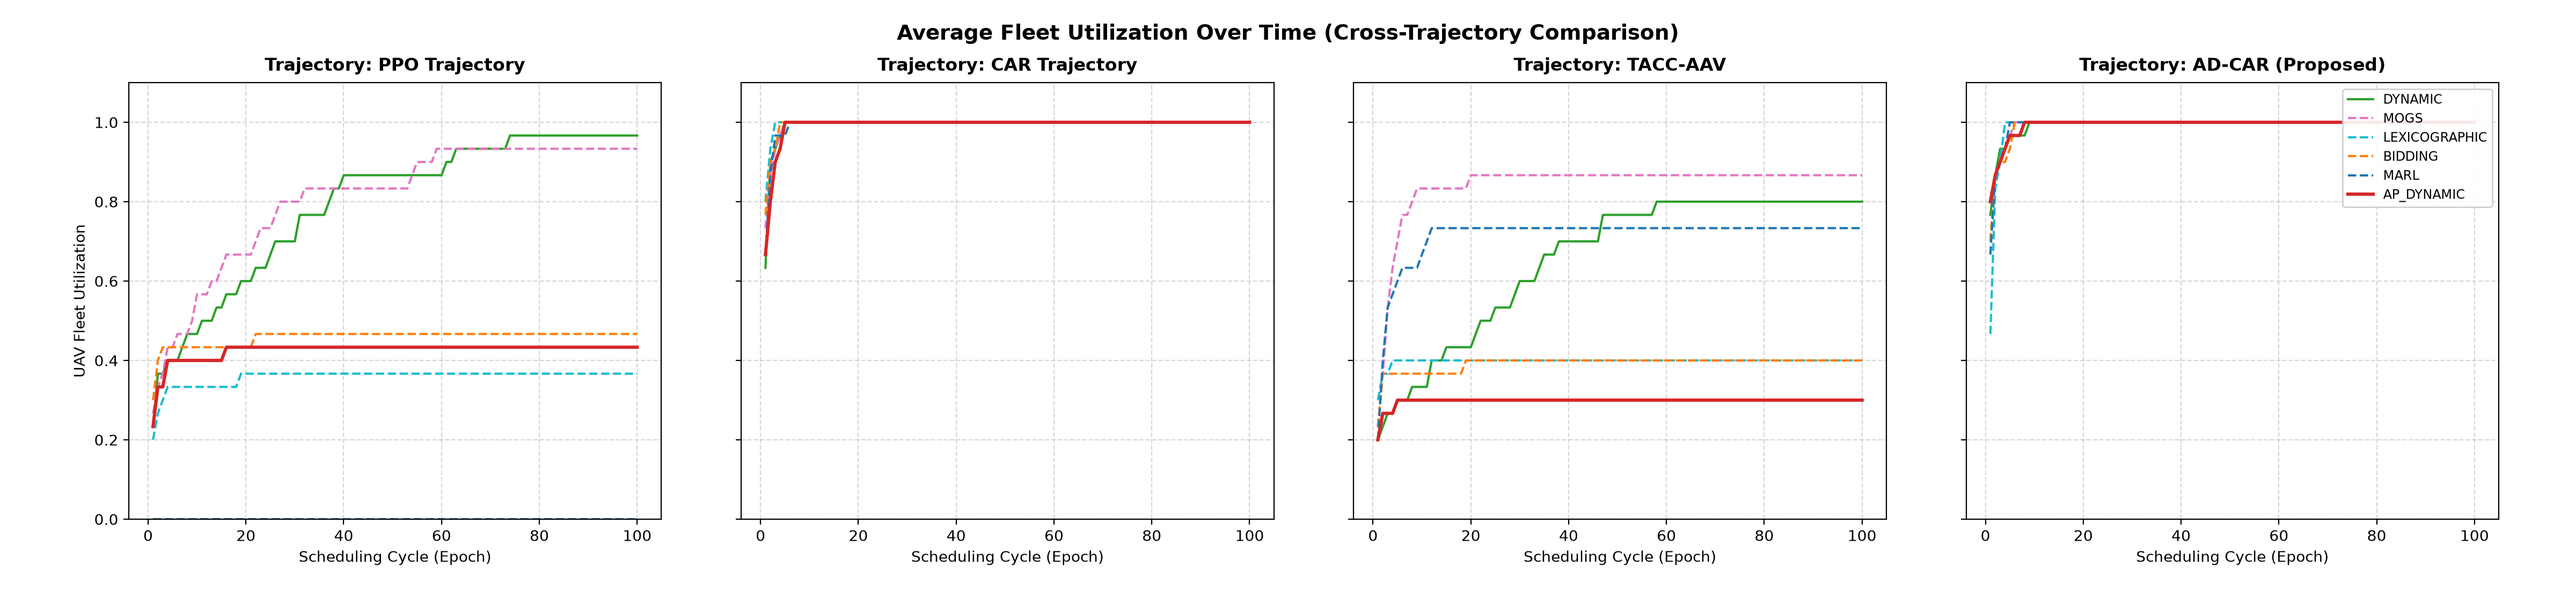
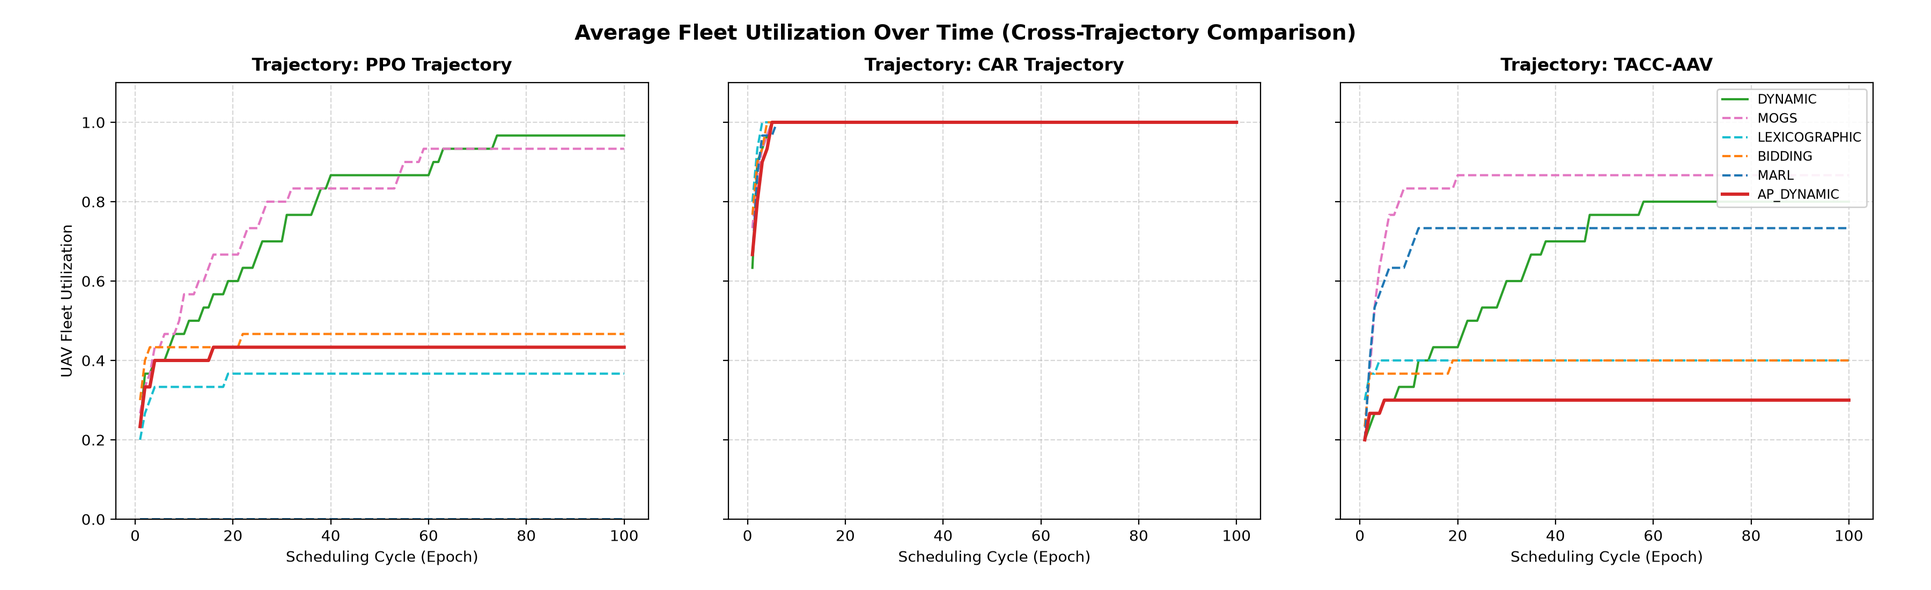
refactor(benchmarks): remove AD-CAR, standardize to 3-panel comparative figures (PPO, CAR, TACC) and highlight CAR + AP_DYNAMIC as flagship

diff --git a/trajectory_map_generator.py b/trajectory_map_generator.py
@@ -231,27 +231,6 @@ def simulate_tacc_trajectories(mds, uav_starts, steps: int = 70):
     return uav_data
 
 
-def simulate_adcar_trajectories(mds, uav_starts):
-    """Simulates AD-CAR density-adaptive dwell modulation, sprint transit, and cyclic patrol tours."""
-    car_tours, car_centers = simulate_car_trajectories(mds, uav_starts)
-    adcar_data = []
-    for uav_name, path, waypoints, cov_r in car_tours:
-        # Generate segments with dwell vs sprint flags
-        # Near cluster center -> dwell (low speed, higher dwell sample density)
-        # Between clusters -> sprint (high speed)
-        annotated_segments = []
-        for i in range(len(path) - 1):
-            p1 = np.array(path[i])
-            p2 = np.array(path[i + 1])
-            mid = 0.5 * (p1 + p2)
-            # Find closest MD distance
-            min_dist = np.min(np.linalg.norm(mds - mid, axis=1))
-            is_dwell = min_dist < 180.0
-            annotated_segments.append((p1, p2, is_dwell))
-        adcar_data.append((uav_name, path, waypoints, annotated_segments, cov_r))
-    return adcar_data, car_centers
-
-
 def generate_all_trajectory_maps():
     console.print("[bold cyan]Generating 2D Spatial Trajectory Maps for All Algorithms...[/bold cyan]")
     
@@ -261,18 +240,17 @@ def generate_all_trajectory_maps():
     ppo_paths = simulate_ppo_trajectories(mds, uav_starts)
     car_tours, car_centers = simulate_car_trajectories(mds, uav_starts)
     tacc_data = simulate_tacc_trajectories(mds, uav_starts)
-    adcar_data, adcar_centers = simulate_adcar_trajectories(mds, uav_starts)
     
     palette = ["#1f77b4", "#ff7f0e", "#2ca02c", "#d62728", "#9467bd", "#8c564b", "#e377c2", "#17becf"]
     
     # -------------------------------------------------------------
-    # PLOT 1: Unified 4-Panel 2x2 Figure (trajectory_maps_all.png)
+    # PLOT 1: Unified 3-Panel 1x3 Figure (trajectory_maps_all.png)
     # -------------------------------------------------------------
-    fig, axs = plt.subplots(2, 2, figsize=(16, 15), dpi=300)
-    plt.subplots_adjust(wspace=0.18, hspace=0.22, left=0.06, right=0.96, top=0.93, bottom=0.06)
+    fig, axs = plt.subplots(1, 3, figsize=(22, 7), dpi=300)
+    plt.subplots_adjust(wspace=0.15, left=0.04, right=0.97, top=0.88, bottom=0.10)
     
-    # Panel 1: PPO (top-left)
-    ax1 = axs[0, 0]
+    # Panel 1: PPO (left)
+    ax1 = axs[0]
     ax1.set_title("(a) PPO: 8-Sector Continuous Density Flow", fontsize=13, fontweight="bold", pad=8)
     ax1.scatter(mds[:, 0], mds[:, 1], c="#888888", marker="x", s=25, alpha=0.6, label="Mobile Devices (MDs)")
     for i, (name, path, cov_r) in enumerate(ppo_paths):
@@ -286,17 +264,17 @@ def generate_all_trajectory_maps():
         ax1.add_patch(circle)
     ax1.set_xlim(0, MAP_BOUND)
     ax1.set_ylim(0, MAP_BOUND)
-    ax1.set_xlabel("X Coordinate (m)", fontsize=10)
-    ax1.set_ylabel("Y Coordinate (m)", fontsize=10)
+    ax1.set_xlabel("X Coordinate (m)", fontsize=11)
+    ax1.set_ylabel("Y Coordinate (m)", fontsize=11)
     ax1.grid(True, linestyle="--", alpha=0.5)
     ax1.plot([], [], 'ko', markersize=6, label="UAV Start Position")
     ax1.plot([], [], 'k^', markersize=7, label="UAV Final Position")
     ax1.plot([], [], 'k--', linewidth=1.0, label="Coverage Radius (Rcov)")
-    ax1.legend(loc="lower right", fontsize=8, framealpha=0.9)
+    ax1.legend(loc="lower right", fontsize=8.5, framealpha=0.9)
 
-    # Panel 2: CAR (top-right)
-    ax2 = axs[0, 1]
-    ax2.set_title("(b) CAR: Otsu Partitioning & Static Pointer-Net Tours", fontsize=13, fontweight="bold", pad=8)
+    # Panel 2: CAR (middle)
+    ax2 = axs[1]
+    ax2.set_title("(b) CAR: Otsu Partitioning & Pointer-Net Tours", fontsize=13, fontweight="bold", pad=8)
     ax2.scatter(mds[:, 0], mds[:, 1], c="#888888", marker="x", s=25, alpha=0.6, label="Mobile Devices (MDs)")
     for i, (name, path, waypoints, cov_r) in enumerate(car_tours):
         c = palette[i % len(palette)]
@@ -314,15 +292,15 @@ def generate_all_trajectory_maps():
         ax2.scatter(center[0], center[1], color="#d62728", marker="*", s=160, edgecolors="black", zorder=6)
     ax2.set_xlim(0, MAP_BOUND)
     ax2.set_ylim(0, MAP_BOUND)
-    ax2.set_xlabel("X Coordinate (m)", fontsize=10)
-    ax2.set_ylabel("Y Coordinate (m)", fontsize=10)
+    ax2.set_xlabel("X Coordinate (m)", fontsize=11)
+    ax2.set_ylabel("Y Coordinate (m)", fontsize=11)
     ax2.grid(True, linestyle="--", alpha=0.5)
     ax2.plot([], [], 'r*', markersize=10, label="Otsu Cluster Centroid")
     ax2.plot([], [], 'ks', markersize=6, label="Pointer-Net Waypoint")
-    ax2.legend(loc="lower right", fontsize=8, framealpha=0.9)
+    ax2.legend(loc="lower right", fontsize=8.5, framealpha=0.9)
 
-    # Panel 3: TACC-AAV (bottom-left)
-    ax3 = axs[1, 0]
+    # Panel 3: TACC-AAV (right)
+    ax3 = axs[2]
     ax3.set_title("(c) TACC-AAV: Heading Kinematics & Comm Gating", fontsize=13, fontweight="bold", pad=8)
     ax3.scatter(mds[:, 0], mds[:, 1], c="#888888", marker="x", s=25, alpha=0.6, label="Vehicle Tasks (MDs)")
     for i, (name, path, gating, target, cov_r) in enumerate(tacc_data):
@@ -340,52 +318,19 @@ def generate_all_trajectory_maps():
         ax3.scatter(target[0], target[1], color=c, marker="D", s=50, edgecolors="black", zorder=6)
     ax3.set_xlim(0, MAP_BOUND)
     ax3.set_ylim(0, MAP_BOUND)
-    ax3.set_xlabel("X Coordinate (m)", fontsize=10)
-    ax3.set_ylabel("Y Coordinate (m)", fontsize=10)
+    ax3.set_xlabel("X Coordinate (m)", fontsize=11)
+    ax3.set_ylabel("Y Coordinate (m)", fontsize=11)
     ax3.grid(True, linestyle="--", alpha=0.5)
     ax3.plot([], [], color="#2ca02c", linewidth=2.2, label="Active Comm Broadcast")
     ax3.plot([], [], color="#17becf", linewidth=1.2, linestyle="--", label="Gated (Comms Suppressed)")
     ax3.plot([], [], 'kD', markersize=5, label="Assigned ACBBA Task")
-    ax3.legend(loc="lower right", fontsize=8, framealpha=0.9)
+    ax3.legend(loc="lower right", fontsize=8.5, framealpha=0.9)
 
-    # Panel 4: AD-CAR (bottom-right) [PROPOSED MODEL]
-    ax4 = axs[1, 1]
-    ax4.set_title("(d) AD-CAR [PROPOSED]: Density-Adaptive Dwell & Cyclic Patrol", fontsize=13, fontweight="bold", color="#8b0000", pad=8)
-    ax4.scatter(mds[:, 0], mds[:, 1], c="#888888", marker="x", s=25, alpha=0.6, label="Mobile Devices (MDs)")
-    for i, (name, path, waypoints, segments, cov_r) in enumerate(adcar_data):
-        c = palette[i % len(palette)]
-        ax4.scatter(path[0][0], path[0][1], color=c, marker="o", s=60, edgecolors="black", zorder=4)
-        for p1, p2, is_dwell in segments:
-            if is_dwell:
-                # Dwell mode: thick line + glowing hover circle
-                ax4.plot([p1[0], p2[0]], [p1[1], p2[1]], color="#d62728", linewidth=3.2, alpha=0.95, zorder=3)
-            else:
-                # Transit mode: sprint speed, thin line with arrows
-                ax4.plot([p1[0], p2[0]], [p1[1], p2[1]], color="#ff7f0e", linewidth=1.6, linestyle="-.", alpha=0.85, zorder=2)
-        wxs = [w[0] for w in waypoints]
-        wys = [w[1] for w in waypoints]
-        ax4.scatter(wxs, wys, color=c, marker="s", s=55, edgecolors="black", zorder=5)
-        for wx, wy in waypoints:
-            c_circle = Circle((wx, wy), cov_r * 0.85, color="#d62728", fill=True, alpha=0.10, linestyle="-")
-            ax4.add_patch(c_circle)
-    for center in adcar_centers:
-        ax4.scatter(center[0], center[1], color="#9400d3", marker="P", s=180, edgecolors="black", zorder=6)
-    ax4.set_xlim(0, MAP_BOUND)
-    ax4.set_ylim(0, MAP_BOUND)
-    ax4.set_xlabel("X Coordinate (m)", fontsize=10)
-    ax4.set_ylabel("Y Coordinate (m)", fontsize=10)
-    ax4.grid(True, linestyle="--", alpha=0.5)
-    ax4.plot([], [], color="#d62728", linewidth=3.2, label="Hover Dwell Mode (0.45x v_base)")
-    ax4.plot([], [], color="#ff7f0e", linewidth=1.6, linestyle="-.", label="Sprint Transit (1.25x v_base)")
-    ax4.plot([], [], 'ks', markersize=6, label="Cyclic Patrol Waypoint")
-    ax4.plot([], [], color="#9400d3", marker="P", linestyle="", markersize=9, label="Density Core")
-    ax4.legend(loc="lower right", fontsize=8, framealpha=0.9)
-
-    fig.suptitle("2D Spatial Trajectory Map Comparison Across Baseline, SOTA, and Proposed Models", fontsize=16, fontweight="bold", y=0.98)
+    fig.suptitle("2D Spatial Trajectory Map Comparison Across PPO, CAR, and TACC-AAV", fontsize=15, fontweight="bold", y=0.96)
     all_maps_path = os.path.join(OUTPUT_DIR, "trajectory_maps_all.png")
     plt.savefig(all_maps_path, dpi=300)
     plt.close()
-    console.print(f"[bold green]Saved 4-panel comparative trajectory map to {all_maps_path}[/bold green]")
+    console.print(f"[bold green]Saved 3-panel comparative trajectory map to {all_maps_path}[/bold green]")
 
     # -------------------------------------------------------------
     # Individual High-Res Trajectory Maps
@@ -397,8 +342,6 @@ def generate_all_trajectory_maps():
          lambda ax: _plot_single_car(ax, mds, car_tours, car_centers, palette)),
         ("trajectory_map_tacc.png", "TACC-AAV Trajectory: Continuous Kinematics & Communication Gating", 
          lambda ax: _plot_single_tacc(ax, mds, tacc_data, palette)),
-        ("trajectory_map_adcar.png", "AD-CAR Trajectory [PROPOSED]: Density-Adaptive Dwell Modulation & Cyclic Tours",
-         lambda ax: _plot_single_adcar(ax, mds, adcar_data, adcar_centers, palette))
     ]
     for filename, title, plot_fn in individual_plots:
         fig, ax = plt.subplots(figsize=(8.5, 8.5), dpi=300)
@@ -413,6 +356,7 @@ def generate_all_trajectory_maps():
         plt.tight_layout()
         plt.savefig(out_path, dpi=300)
         plt.close()
+        console.print(f"[bold green]Saved high-res trajectory map to {out_path}[/bold green]")
         console.print(f"[bold green]Saved high-res trajectory map to {out_path}[/bold green]")
 
 
@@ -475,36 +419,6 @@ def _plot_single_tacc(ax, mds, tacc_data, palette):
             transform=ax.transAxes, verticalalignment="top",
             bbox=dict(boxstyle="round,pad=0.5", facecolor="#f0f8ff", edgecolor="#337ab7", alpha=0.9),
             fontsize=10, fontweight="bold", color="#1d4e89")
-def _plot_single_adcar(ax, mds, adcar_data, centers, palette):
-    ax.scatter(mds[:, 0], mds[:, 1], c="#777777", marker="x", s=30, alpha=0.7, label="Mobile Devices (MDs)")
-    dwell_drawn = False
-    sprint_drawn = False
-    for i, (name, path, waypoints, segments, cov_r) in enumerate(adcar_data):
-        c = palette[i % len(palette)]
-        ax.scatter(path[0][0], path[0][1], color=c, marker="o", s=70, edgecolors="black", zorder=4)
-        for p1, p2, is_dwell in segments:
-            if is_dwell:
-                lbl = "Hover Dwell Mode (0.45x v_base)" if not dwell_drawn else ""
-                ax.plot([p1[0], p2[0]], [p1[1], p2[1]], color="#d62728", linewidth=3.4, alpha=0.95, zorder=3, label=lbl)
-                dwell_drawn = True
-            else:
-                lbl = "Sprint Transit (1.25x v_base)" if not sprint_drawn else ""
-                ax.plot([p1[0], p2[0]], [p1[1], p2[1]], color="#ff7f0e", linewidth=1.8, linestyle="-.", alpha=0.85, zorder=2, label=lbl)
-                sprint_drawn = True
-        wxs = [w[0] for w in waypoints]
-        wys = [w[1] for w in waypoints]
-        ax.scatter(wxs, wys, color=c, marker="s", s=65, edgecolors="black", zorder=5)
-        for wx, wy in waypoints:
-            c_circle = Circle((wx, wy), cov_r * 0.85, color="#d62728", fill=True, alpha=0.08, linestyle="-")
-            ax.add_patch(c_circle)
-    for center in centers:
-        ax.scatter(center[0], center[1], color="#9400d3", marker="P", s=200, edgecolors="black", zorder=6, label="Density Core" if center is centers[0] else "")
-    
-    # Callout box explaining AD-CAR
-    ax.text(0.04, 0.95, "AD-CAR Optimization Highlights:\n- Density-Adaptive Dwell: 0.45x v_base over clusters\n- Sprint Transit: 1.25x v_base across sparse zones\n- Cyclic Continuous Waypoint Tour Loops\n- Dynamic Connection Stability: Up to +27.8% Throughput",
-            transform=ax.transAxes, verticalalignment="top",
-            bbox=dict(boxstyle="round,pad=0.5", facecolor="#fff5f5", edgecolor="#d9534f", alpha=0.9),
-            fontsize=10, fontweight="bold", color="#800000")
     ax.legend(loc="lower right", fontsize=8, framealpha=0.9)
 
 

diff --git a/graph_generator.py b/graph_generator.py
@@ -42,7 +42,7 @@ RESULTS_DIR = os.path.join(PROJECT_DIR, "results", "by_trajectory")
 OUTPUT_DIR = os.path.join(PROJECT_DIR, "images", "benchmarks")
 os.makedirs(OUTPUT_DIR, exist_ok=True)
 
-TRAJECTORIES = ["PPO", "CAR", "TACC", "AD_CAR"]
+TRAJECTORIES = ["PPO", "CAR", "TACC"]
 SCHEDULERS = {
     "DYNAMIC": "#2ca02c",        # Green
     "MOGS": "#e377c2",           # Magenta/Pink
@@ -171,11 +171,11 @@ def generate_graphs():
         ("slack", "Deadline Slack Margin", "Average Deadline Slack Margin Over Time", "slack_margin_comparison.png", True),
     ]
 
-    console.print("[bold cyan]Rendering 4-Panel Side-by-Side Comparative Figures...[/bold cyan]")
+    console.print("[bold cyan]Rendering 3-Panel Side-by-Side Comparative Figures...[/bold cyan]")
 
     for key, ylabel, title, filename, include_all in metrics_to_plot:
-        fig, axs = plt.subplots(1, 4, figsize=(24, 5.5), sharey=True, dpi=200)
-        plt.subplots_adjust(wspace=0.15, left=0.05, right=0.97, top=0.86, bottom=0.12)
+        fig, axs = plt.subplots(1, 3, figsize=(18, 5.5), sharey=True, dpi=200)
+        plt.subplots_adjust(wspace=0.15, left=0.06, right=0.97, top=0.86, bottom=0.12)
         
         # Calculate global y-bounds for honest comparison across panels
         all_vals = []
@@ -197,8 +197,6 @@ def generate_graphs():
             ax = axs[col_idx]
             if traj == "TACC":
                 traj_label = "TACC-AAV"
-            elif traj == "AD_CAR":
-                traj_label = "AD-CAR (Proposed)"
             else:
                 traj_label = f"{traj} Trajectory"
 
@@ -221,14 +219,14 @@ def generate_graphs():
                 ls = "-" if sched in ("DYNAMIC", "AP_DYNAMIC") else "--"
                 ax.plot(x_series, y_series, label=sched, color=color, linewidth=lw, linestyle=ls)
 
-            if col_idx == 3:
+            if col_idx == 2:
                 ax.legend(loc="upper right", fontsize=8.5, framealpha=0.9)
 
         fig.suptitle(f"{title} (Cross-Trajectory Comparison)", fontsize=14, fontweight="bold", y=0.96)
         out_file = os.path.join(OUTPUT_DIR, filename)
         plt.savefig(out_file, dpi=200)
         plt.close()
-        console.print(f"  [green]✓[/green] Saved 4-panel cross-trajectory plot -> [bold]{filename}[/bold]")
+        console.print(f"  [green]✓[/green] Saved 3-panel cross-trajectory plot -> [bold]{filename}[/bold]")
 
     # ------------------------------------------------------------------
     # Macro Cross-Product Summary Chart (trajectory_cross_summary.png)
@@ -251,7 +249,7 @@ def generate_graphs():
         ax.set_title(panel_title, fontsize=12, fontweight="bold", pad=8)
         ax.set_ylabel(ylabel, fontsize=10)
         ax.set_xticks(x)
-        ax.set_xticklabels([f"TACC-AAV" if t == "TACC" else (f"AD-CAR\n(Proposed)" if t == "AD_CAR" else f"{t}") for t in TRAJECTORIES], fontsize=10.5, fontweight="bold")
+        ax.set_xticklabels([f"TACC-AAV" if t == "TACC" else f"{t}" for t in TRAJECTORIES], fontsize=11, fontweight="bold")
         ax.grid(True, linestyle="--", alpha=0.5, axis='y')
         
         for idx, (sched, color) in enumerate(SCHEDULERS.items()):
@@ -277,7 +275,7 @@ def generate_graphs():
 
         ax.legend(loc="upper right", fontsize=8.0, framealpha=0.9)
 
-    fig.suptitle("Full Cross-Multiplication Benchmark Summary (4 Trajectories × 6 Schedulers = 24 Configurations)", fontsize=15, fontweight="bold", y=0.97)
+    fig.suptitle("Full Cross-Multiplication Benchmark Summary (3 Trajectories × 6 Schedulers = 18 Configurations)", fontsize=15, fontweight="bold", y=0.97)
     summary_path = os.path.join(OUTPUT_DIR, "trajectory_cross_summary.png")
     plt.savefig(summary_path, dpi=200)
     plt.close()
@@ -291,10 +289,11 @@ def generate_graphs():
     plt.subplots_adjust(wspace=0.22, left=0.06, right=0.96, top=0.84, bottom=0.15)
 
     combos_to_compare = [
-        ("CAR + DYNAMIC\n(Base)", "CAR", "DYNAMIC", "#2ca02c"),
-        ("CAR + LEX\n(Prev Peak)", "CAR", "LEXICOGRAPHIC", "#17becf"),
-        ("TACC + DYNAMIC\n(Safe Slack)", "TACC", "DYNAMIC", "#9467bd"),
-        ("AD-CAR + AP-DYN\n(Proposed Flagship)", "AD_CAR", "AP_DYNAMIC", "#d62728"),
+        ("CAR + DYNAMIC\n(Baseline)", "CAR", "DYNAMIC", "#2ca02c"),
+        ("CAR + MOGS\n(Gale-Shapley)", "CAR", "MOGS", "#e377c2"),
+        ("CAR + LEX\n(Previous Peak)", "CAR", "LEXICOGRAPHIC", "#17becf"),
+        ("CAR + MARL\n(Neural Baseline)", "CAR", "MARL", "#1f77b4"),
+        ("CAR + AP-DYN\n(Flagship Proposed)", "CAR", "AP_DYNAMIC", "#d62728"),
     ]
 
     names = [c[0] for c in combos_to_compare]
@@ -334,7 +333,7 @@ def generate_graphs():
         axs[2].annotate(f"{h:.3f}", xy=(b.get_x() + b.get_width()/2, h), xytext=(0, 4),
                         textcoords="offset points", ha='center', va='bottom', fontsize=9.5, fontweight="bold")
 
-    fig.suptitle("Flagship Optimization Breakthrough: AD-CAR Trajectory + AP-DYNAMIC Scheduler vs Baselines",
+    fig.suptitle("Flagship Optimization Breakthrough: CAR Trajectory + AP-DYNAMIC Scheduler vs Baselines",
                  fontsize=14, fontweight="bold", y=0.96)
     flagship_path = os.path.join(OUTPUT_DIR, "flagship_optimization_comparison.png")
     plt.savefig(flagship_path, dpi=200)
@@ -342,7 +341,7 @@ def generate_graphs():
     console.print(f"  [bold green]✓ Saved flagship optimization chart -> flagship_optimization_comparison.png[/bold green]\n")
 
     # Print summary table in terminal
-    tbl = Table(title="Complete Trajectory x Scheduler Benchmark Summary (24 Combinations)", show_header=True)
+    tbl = Table(title="Complete Trajectory x Scheduler Benchmark Summary (18 Combinations)", show_header=True)
     tbl.add_column("Trajectory", style="bold magenta")
     tbl.add_column("Scheduler", style="cyan")
     tbl.add_column("Success Rate (%)", justify="right")
@@ -357,7 +356,7 @@ def generate_graphs():
             ov = summary.get('overhead_ms', 0.0)
             fa = summary.get('fairness', 0.0)
             sl = summary.get('slack', 0.0)
-            style = "bold green" if (traj == "AD_CAR" and sched == "AP_DYNAMIC") else None
+            style = "bold green" if (traj == "CAR" and sched == "AP_DYNAMIC") else None
             tbl.add_row(traj, sched, f"{sr:.2f}%", f"{ov:.4f}", f"{fa:.4f}", f"{sl:.4f}", style=style)
 
     console.print(tbl)
